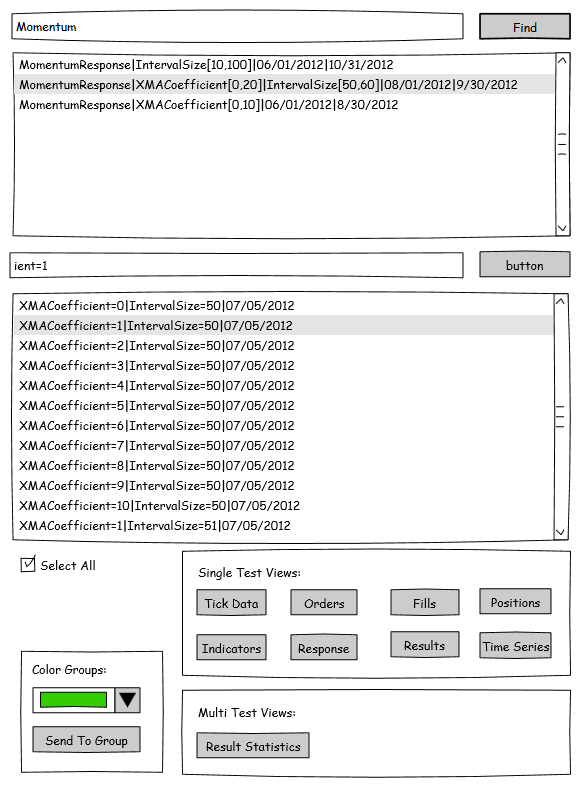
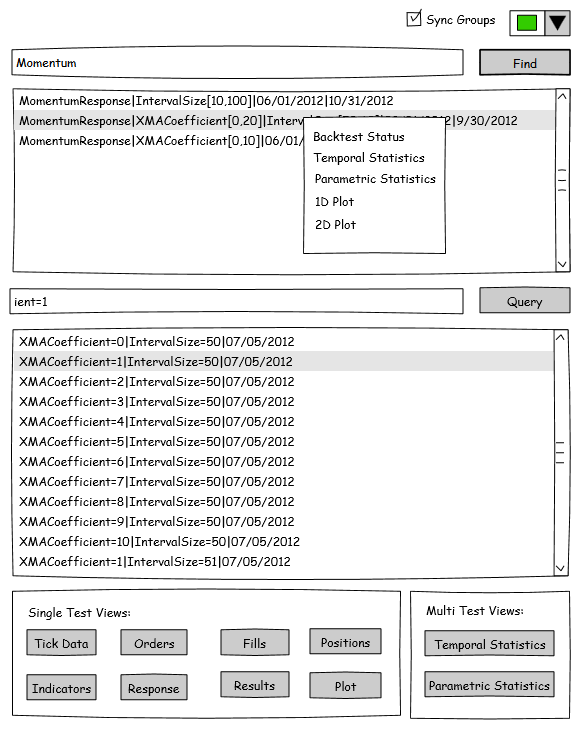
Added wireframes for some of the plotting and histogram stuff.

diff --git a/WireFrames/index.html b/WireFrames/index.html
@@ -1,114 +1,3 @@
-<html xmlns="http://www.w3.org/1999/xhtml">
-	<head>
-		<meta http-equiv="Content-Type" content="text/html; charset=UTF-8" />
-		<title>WireFrames.ep</title>
-		<script type="text/javascript" src="Resources/Script.js">
-		</script>
-	</head>
-	<body>
-		<div id="page">
-			<div id="content">
-				<h1 id="documentTitle">
-					<span>WireFrames.ep</span>
-				</h1>
-				<div class="Page" id="login_page">
-					<div class="Texts">
-						<h2 class="Title">Login</h2>
-					</div>
-					<div class="Image">
-						<img width="582.09375" height="477.75" src="pages%5Clogin.png" usemap="#map_login" id="login_page_image" />
-						<div class="ImageFooter"> </div>
-						<map name="map_login">
-							<area shape="rect" coords="474.58331298828125,441.5,565.5999908447266,468.25" href="#backtestingmodule_page" title="Go to page 'BacktestingModule'" />
-						</map>
-					</div>
-				</div>
-				<div class="Page" id="backtestingmodule_page">
-					<div class="Texts">
-						<h2 class="Title">BacktestingModule</h2>
-					</div>
-					<div class="Image">
-						<img width="502" height="194" src="pages%5Cbacktestingmodule.png" usemap="#map_backtestingmodule" id="backtestingmodule_page_image" />
-						<div class="ImageFooter"> </div>
-						<map name="map_backtestingmodule">
-							<area shape="rect" coords="247,60.5,351,78.5" href="#responseselection_page" title="Go to page 'ResponseSelection'" />
-							<area shape="rect" coords="247,94.5,347,112.5" href="#backtestbrowser_page" title="Go to page 'BacktestBrowser'" />
-						</map>
-					</div>
-				</div>
-				<div class="Page" id="responseselection_page">
-					<div class="Texts">
-						<h2 class="Title">ResponseSelection</h2>
-					</div>
-					<div class="Image">
-						<img width="482.5" height="389.75" src="pages%5Cresponseselection.png" usemap="#map_responseselection" id="responseselection_page_image" />
-						<div class="ImageFooter"> </div>
-						<map name="map_responseselection">
-							<area shape="rect" coords="281.5,353.5,372.5,380.25" href="#backtestingmodule_page" title="Go to page 'BacktestingModule'" />
-							<area shape="rect" coords="381.5,353.5,472.5,379.5" href="#parametricrange_page" title="Go to page 'ParametricRange'" />
-						</map>
-					</div>
-				</div>
-				<div class="Page" id="parametricrange_page">
-					<div class="Texts">
-						<h2 class="Title">ParametricRange</h2>
-					</div>
-					<div class="Image">
-						<img width="512" height="292" src="pages%5Cparametricrange.png" usemap="#map_parametricrange" id="parametricrange_page_image" />
-						<div class="ImageFooter"> </div>
-						<map name="map_parametricrange">
-							<area shape="rect" coords="10.5,256.5,101.5,282.5" href="#temporalrange_page" title="Go to page 'TemporalRange'" />
-							<area shape="rect" coords="306.5,256.5,397.5,282.5" href="#backtestingmodule_page" title="Go to page 'BacktestingModule'" />
-							<area shape="rect" coords="411.5,255.5,502.5,281.5" href="#temporalrange_page" title="Go to page 'TemporalRange'" />
-						</map>
-					</div>
-				</div>
-				<div class="Page" id="temporalrange_page">
-					<div class="Texts">
-						<h2 class="Title">TemporalRange</h2>
-					</div>
-					<div class="Image">
-						<img width="633.75" height="472.75" src="pages%5Ctemporalrange.png" usemap="#map_temporalrange" id="temporalrange_page_image" />
-						<div class="ImageFooter"> </div>
-						<map name="map_temporalrange">
-							<area shape="rect" coords="428.5,436.5,519.5,462.5" href="#backtestingmodule_page" title="Go to page 'BacktestingModule'" />
-							<area shape="rect" coords="10.5,435.75,101.5,463.25" href="#responseselection_page" title="Go to page 'ResponseSelection'" />
-							<area shape="rect" coords="531.13330078125,436.1333312988281,622.8666381835938,462.8666687011719" href="#backteststatus_page" title="Go to page 'BacktestStatus'" />
-						</map>
-					</div>
-				</div>
-				<div class="Page" id="backteststatus_page">
-					<div class="Texts">
-						<h2 class="Title">BacktestStatus</h2>
-					</div>
-					<div class="Image">
-						<img width="524" height="293.2799987792969" src="pages%5Cbackteststatus.png" usemap="#map_backteststatus" id="backteststatus_page_image" />
-						<div class="ImageFooter"> </div>
-					</div>
-				</div>
-				<div class="Page" id="backtestbrowser_page">
-					<div class="Texts">
-						<h2 class="Title">BacktestBrowser</h2>
-					</div>
-					<div class="Image">
-						<img width="580.5" height="787.25" src="pages%5Cbacktestbrowser.png" usemap="#map_backtestbrowser" id="backtestbrowser_page_image" />
-						<div class="ImageFooter"> </div>
-					</div>
-				</div>
-				<div id="navigator">
-					<div class="NavLink" id="prevLink">
-						<div class="Wrapper">
-							<a href="#"> </a>
-						</div>
-					</div>
-					<div class="NavLink NavNextLink" id="nextLink">
-						<div class="Wrapper">
-							<a href="#"> </a>
-						</div>
-					</div>
-				</div>
-			</div>
-			<div id="footer"/>
-		</div>
-	</body>
-</html>
+<html xmlns="http://www.w3.org/1999/xhtml"><head><meta http-equiv="Content-Type" content="text/html; charset=UTF-8" /><title>WireFrames.ep</title><script type="text/javascript" src="Resources/Script.js">
+                    //
+                </script></head><body><div id="page"><div id="content"><h1 id="documentTitle"><span>WireFrames.ep</span></h1><div class="Page" id="login_page"><div class="Texts"><h2 class="Title">Login</h2></div><div class="Image"><img width="582.09375" height="477.75" src="pages%5Clogin.png" usemap="#map_login" id="login_page_image" /><div class="ImageFooter"> </div><map name="map_login"><area shape="rect" coords="474.58331298828125,441.5,565.5999908447266,468.25" href="#backtestingmodule_page" title="Go to page 'BacktestingModule'" /></map></div></div><div class="Page" id="backtestingmodule_page"><div class="Texts"><h2 class="Title">BacktestingModule</h2></div><div class="Image"><img width="502" height="194" src="pages%5Cbacktestingmodule.png" usemap="#map_backtestingmodule" id="backtestingmodule_page_image" /><div class="ImageFooter"> </div><map name="map_backtestingmodule"><area shape="rect" coords="247,60.5,351,78.5" href="#responseselection_page" title="Go to page 'ResponseSelection'" /><area shape="rect" coords="247,94.5,347,112.5" href="#backtestbrowser_page" title="Go to page 'BacktestBrowser'" /></map></div></div><div class="Page" id="responseselection_page"><div class="Texts"><h2 class="Title">ResponseSelection</h2></div><div class="Image"><img width="482.5" height="389.75" src="pages%5Cresponseselection.png" usemap="#map_responseselection" id="responseselection_page_image" /><div class="ImageFooter"> </div><map name="map_responseselection"><area shape="rect" coords="281.5,353.5,372.5,380.25" href="#backtestingmodule_page" title="Go to page 'BacktestingModule'" /><area shape="rect" coords="381.5,353.5,472.5,379.5" href="#parametricrange_page" title="Go to page 'ParametricRange'" /></map></div></div><div class="Page" id="parametricrange_page"><div class="Texts"><h2 class="Title">ParametricRange</h2></div><div class="Image"><img width="485.25" height="339" src="pages%5Cparametricrange.png" usemap="#map_parametricrange" id="parametricrange_page_image" /><div class="ImageFooter"> </div><map name="map_parametricrange"><area shape="rect" coords="9.75,303.5,100.75,329.5" href="#temporalrange_page" title="Go to page 'TemporalRange'" /><area shape="rect" coords="279.75,303.5,370.75,329.5" href="#backtestingmodule_page" title="Go to page 'BacktestingModule'" /><area shape="rect" coords="384.75,302.5,475.75,328.5" href="#temporalrange_page" title="Go to page 'TemporalRange'" /></map></div></div><div class="Page" id="temporalrange_page"><div class="Texts"><h2 class="Title">TemporalRange</h2></div><div class="Image"><img width="633.75" height="472.75" src="pages%5Ctemporalrange.png" usemap="#map_temporalrange" id="temporalrange_page_image" /><div class="ImageFooter"> </div><map name="map_temporalrange"><area shape="rect" coords="428.5,436.5,519.5,462.5" href="#backtestingmodule_page" title="Go to page 'BacktestingModule'" /><area shape="rect" coords="10.5,435.75,101.5,463.25" href="#responseselection_page" title="Go to page 'ResponseSelection'" /><area shape="rect" coords="531.13330078125,436.1333312988281,622.8666381835938,462.8666687011719" href="#backteststatus_page" title="Go to page 'BacktestStatus'" /></map></div></div><div class="Page" id="backteststatus_page"><div class="Texts"><h2 class="Title">BacktestStatus</h2></div><div class="Image"><img width="625.0989074707031" height="296.2799987792969" src="pages%5Cbackteststatus.png" usemap="#map_backteststatus" id="backteststatus_page_image" /><div class="ImageFooter"> </div></div></div><div class="Page" id="backtestbrowser_page"><div class="Texts"><h2 class="Title">BacktestBrowser</h2></div><div class="Image"><img width="580.25" height="729" src="pages%5Cbacktestbrowser.png" usemap="#map_backtestbrowser" id="backtestbrowser_page_image" /><div class="ImageFooter"> </div><map name="map_backtestbrowser"><area shape="rect" coords="313,127,405.0500030517578,145" href="#backteststatus_page" title="Go to page 'BacktestStatus'" /><area shape="rect" coords="309.5,671.5,381.5,699" href="#responsetimeseries_page" title="Go to page 'ResponseTimeSeries'" /></map></div></div><div class="Page" id="responsetimeseries_page"><div class="Texts"><h2 class="Title">ResponseTimeSeries</h2></div><div class="Image"><img width="701.6015625125261" height="373.94140625" src="pages%5Cresponsetimeseries.png" usemap="#map_responsetimeseries" id="responsetimeseries_page_image" /><div class="ImageFooter"> </div></div></div><div class="Page" id="temporalstatistics_page"><div class="Texts"><h2 class="Title">TemporalStatistics</h2></div><div class="Image"><img width="1273" height="809" src="pages%5Ctemporalstatistics.png" usemap="#map_temporalstatistics" id="temporalstatistics_page_image" /><div class="ImageFooter"> </div></div></div><div class="Page" id="parametricstatistics_page"><div class="Texts"><h2 class="Title">ParametricStatistics</h2></div><div class="Image"><img width="1273" height="809" src="pages%5Cparametricstatistics.png" usemap="#map_parametricstatistics" id="parametricstatistics_page_image" /><div class="ImageFooter"> </div></div></div><div id="navigator"><div class="NavLink" id="prevLink"><div class="Wrapper"><a href="#"> </a></div></div><div class="NavLink NavNextLink" id="nextLink"><div class="Wrapper"><a href="#"> </a></div></div></div></div><div id="footer"></div></div></body></html>
